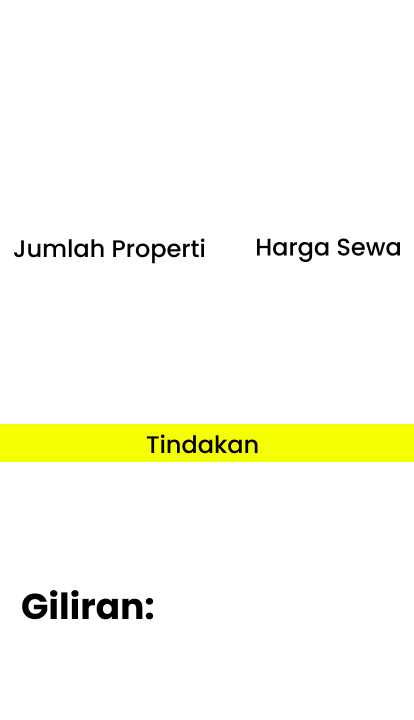
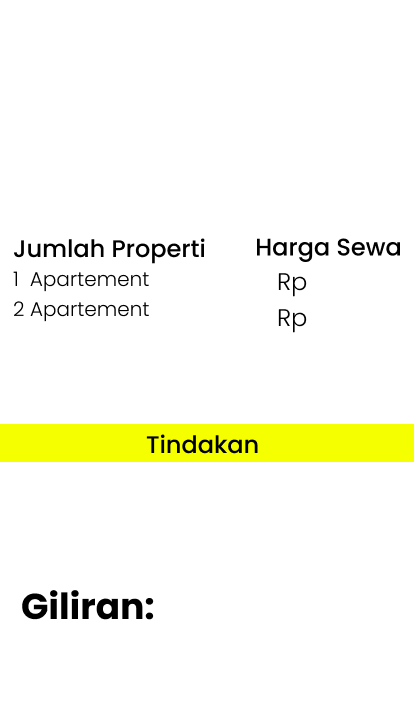
Merapikan kode

Changed region(s): [[0.029, 0.3667, 0.3768, 0.4583], [0.6667, 0.3667, 0.7536, 0.4583]]

diff --git a/src/action.py b/src/action.py
@@ -1,5 +1,77 @@
-def pay_props(self):
+from tkinter import messagebox
+import random
+
+def cek_petak(self):
+  self.start_bonus()
+  self.pay_tax()
+  self.pay_needs()
+  self.bansos()
+
+def start_bonus(self):
+  if self.move_latch == True:
+    if self.which_player_loc == 1:
+      get_latch = False
+      if get_latch == False:
+        total_value = int(self.amount_read_player(self.which_player))
+        total_value += 100000
+        self.amount_add_player(self.which_player, int(total_value))
+        messagebox.showinfo('Bonus Start', f'{self.which_player_name} mendapat bonus sebesar Rp.100.000 saat melewati start')
+        self.stats_update()
+        get_latch = True
+
+def pay_rent(self):
   player_amount = int(self.amount_read_player(self.which_player)) - 100000
   player_amount_invers = int(self.amount_read_player(self.which_player_invers)) + 100000
   self.amount_add_player(self.which_player, player_amount)
   self.amount_add_player(self.which_player_invers, player_amount_invers)
+  messagebox.showinfo('Informasi', f'{self.which_player_name} membayar sewa ke {self.which_player_name_invers} sebesar Rp. 100.000')
+
+def pay_tax(self):
+  cekProperti = self.props_read(self.which_player)
+  daftar_properti = cekProperti.split(', ')
+
+  base_value = 200000
+  if self.which_player_loc == 3:
+    total_value = int(self.amount_read_player(self.which_player)) - base_value
+    total_value -= ((len(daftar_properti)-1) * (base_value/2))
+
+    if cekProperti != '':
+      self.amount_add_player(self.which_player, int(total_value))
+      messagebox.showinfo('Pembayaran pajak', f'{self.which_player_name} membayar pajak sebesar Rp.{total_value}\nDengan bangunan sejumlah {len(daftar_properti)-1}')
+    else:
+      messagebox.showinfo('Pembayaran pajak', f'{self.which_player_name} membayar pajak sebesar Rp.{total_value}\nTanpa bangunan')
+
+    self.kunci_dadu = False
+    self.giliran = not self.giliran
+    self.stats_update()
+
+def pay_needs(self):
+  cekProperti = self.props_read(self.which_player)
+  total_value = int(self.amount_read_player(self.which_player))
+  daftar_properti = cekProperti.split(', ')
+  total_value -= ((len(daftar_properti)-1) * 50000)
+
+  if self.which_player_loc == 19:
+    if cekProperti == '':
+      messagebox.showinfo('Informasi', f'{self.which_player_name} anda tidak memiliki tagihan listrik')
+    else:
+      self.amount_add_player(self.which_player, int(total_value))
+      messagebox.showinfo('Pembayaran listrik', f'{self.which_player_name} membayar listrik sebesar Rp.{total_value}\nDengan bangunan sejumlah {len(daftar_properti)-1}')
+
+  if self.which_player_loc == 35:
+    if cekProperti == '':
+      messagebox.showinfo('Informasi', f'{self.which_player_name} anda tidak memiliki tagihan air')
+    else:
+      self.amount_add_player(self.which_player, int(total_value))
+      messagebox.showinfo('Pembayaran air', f'{self.which_player_name} membayar air sebesar Rp.{total_value}\nDengan bangunan sejumlah {len(daftar_properti)}')
+
+  self.kunci_dadu = False
+  self.giliran = not self.giliran
+  self.stats_update()
+
+def bansos(self):
+  total_value = int(self.amount_read_player(self.which_player))
+  total_value += (random.randint(20, 500) * 1000)
+  if self.which_player_loc in [24, 36]:
+    self.amount_add_player(self.which_player, int(total_value))
+    messagebox.showinfo('Dapat Bansos', f'Selamat {self.which_player_name}, kamu mendapat bansos sebesar {total_value}')

diff --git a/main.py b/main.py
@@ -75,7 +75,7 @@ setup.amount_read_player = crud_player.amount_read_player
 class screen1(setup): # Halaman Loading Awal
   def __init__(self, master):
     super().__init__(master)
-    # self.show() # Tampilkan halaman saat program dijalankan
+    self.show() # Tampilkan halaman saat program dijalankan
 
     # Tunggu 3 detik kemudian jalankan self.changeTo
     self.master.after(3000, self.changeTo) 
@@ -129,8 +129,9 @@ screen3.amount_set = crud_player.amount_set
 class screen4(setup): # Halaman permainan utama
   def __init__(self, master):
     super().__init__(master)
-    self.show()
-
+    # self.show()
+    
+    self.move_latch = False
     # Inisiasi pengambilan assets apartement
     self.show_apar()
 
@@ -149,7 +150,9 @@ class screen4(setup): # Halaman permainan utama
     self.props_add('player2', '')
 
     # Refresh tampilan data pemain
+    
     self.stats_update()
+    self.list_harga()
 
     # Pengelompokan kordinat ke dalam x dan y
     self.kordinat_x = kordinat.kordinat_x()
@@ -194,24 +197,29 @@ screen4.nextPlayer = move_option.nextPlayer
 screen4.bg_image = buy_props.bg_image
 # Tampilan daftar harga dan sewa
 screen4.list_harga = buy_props.list_harga
-# Inisiasi Pengambilas asset apartement
+# Inisiasi Pengambilan asset apartement
 screen4.show_apar = buy_props.show_apar
 #=====================================#
 
 # Fungsi mengembalikan nama kota
-screen4.list_kota = buy_props.list_kota
+screen4.list_town_name = buy_props.list_town_name
 
 #======== Fungsi Pembelian Properti =======#
 # Menambahkan data pembelian properti
 screen4.props_add = buy_props.props_add
 # Periksa data pembelian yang sudah tersimpan
 screen4.props_read = buy_props.props_read
-# Sistem bayar pemain ketika berada di kota lawan
-screen4.pay_props = action.pay_props
 # Sistem beli properti pemain
 screen4.buy1_apar = buy_props.buy1_apar
 screen4.buy2_apar = buy_props.buy2_apar
 #==========================================#
+
+screen4.start_bonus = action.start_bonus
+screen4.pay_rent = action.pay_rent
+screen4.cek_petak = action.cek_petak
+screen4.pay_tax = action.pay_tax
+screen4.pay_needs = action.pay_needs
+screen4.bansos = action.bansos
 
 #===============================================================#
 #============================================================================================#

diff --git a/pages/name_init.py b/pages/name_init.py
@@ -40,25 +40,25 @@ def name_init_screen(self):
   #==============================# End Inisiasi Entry & Button #===============================#
   
   #==============================# Menempatkan Gambar, Entry, & Button #===============================#
-  self.canvas.create_image(0, 0, anchor='nw', image=self.bg)
-  self.canvas.create_image(442.05, 96, anchor='nw', image=self.title)
+  self.canvas.create_image(0, 0, anchor='nw', image= self.bg)
+  self.canvas.create_image(442.05, 96, anchor='nw', image= self.title)
   self.canvas.create_image(364, 259, anchor= 'nw', image= self.player1_bg)
   self.canvas.create_image(364, 352, anchor= 'nw', image= self.player2_bg)
   self.canvas.create_image(364, 472, anchor= 'nw', image= self.modal_bg)
+  self.canvas.create_window(410, 570, anchor= 'nw', window= self.btn_start)
   self.player1_entry.place(x= 539, y= 270)
   self.player2_entry.place(x= 539, y= 360)
   self.modal_amount.place(x= 609, y= 482)
-  self.canvas.create_window(410, 570, anchor= 'nw', window= self.btn_start)
   #===============================# End Menempatkan Gambar, Entry, & Button #===============================#
 #========================== End desain halaman inisialisasi nama pemain ==========================#
 
 def changeTo(self):
   self.name_add(self.player1_name.get(), self.player2_name.get())
 
-  self.cekNama1 = self.name_read_player('player1')
-  self.cekNama2 = self.name_read_player('player2')
+  cekNama1 = self.name_read_player('player1')
+  cekNama2 = self.name_read_player('player2')
 
-  if self.cekNama1 == '' or self.cekNama2 == '':
+  if cekNama1 == '' or cekNama2 == '':
     messagebox.showerror('Perhatikan!!', "Nama pemain tidak boleh kosong!")
     return
     
@@ -68,9 +68,9 @@ def changeTo(self):
     messagebox.showerror('Perhatikan!!', "Jumlah modal harus berupa angka!")
     return
   self.amount_set(str(self.modal_amount.get()))
-  self.cekUang = int(self.amount_read_player('player1'))
+  cekUang = int(self.amount_read_player('player1'))
 
-  if self.cekUang < 10000:
+  if cekUang < 10000:
     messagebox.showerror('Perhatikan!!', "Jumlah modal harus lebih dari 100.000!")
     return
   

diff --git a/src/buy_props.py b/src/buy_props.py
@@ -82,17 +82,17 @@ def bg_image(self, x):
     return import_image('assets/bg_town8.png', png= 1)
 
 # Fungsi mengembalikan nama kota
-def list_kota(self, x): 
+def list_town_name(self, x): 
   if x in list_town:
     return town_name[list_town.index(x)]
 
 # Tampilan informasi harga beli dan sewa
 def list_harga(self):
-  self.town_title_bg = self.bg_image(self.which_player_loc)
-  self.town_title = self.list_kota(self.which_player_loc)
+  town_title_bg = self.bg_image(self.which_player_loc)
+  town_title = self.list_town_name(self.which_player_loc)
 
-  self.town_title_bg_item = self.canvas.create_image(0, 181, anchor='nw', image=self.town_title_bg)
-  self.town_title_item = self.canvas.create_text(138, 184, anchor='nw', text= self.town_title, font=('Poppins', 20), fill= 'white')
+  self.town_title_bg_item = self.canvas.create_image(0, 181, anchor='nw', image=town_title_bg)
+  self.town_title_item = self.canvas.create_text(138, 184, anchor='nw', text= town_title, font=('Poppins', 20), fill= 'white')
 
 # Fungsi untuk membeli 1 apartement
 def buy1_apar(self):
@@ -105,7 +105,7 @@ def buy1_apar(self):
   self.buy2_price.destroy()
 
   # Fungsi
-  town_name = self.list_kota(self.which_player_loc)
+  town_name = self.list_town_name(self.which_player_loc)
   prop_cache = self.props_read(self.which_player)
   player_amount = int(self.amount_read_player(self.which_player)) - 100000
 
@@ -139,7 +139,7 @@ def buy2_apar(self):
   self.buy2_price.destroy()
 
   # Fungsi
-  town_name = self.list_kota(self.which_player_loc)
+  town_name = self.list_town_name(self.which_player_loc)
   prop_cache = self.props_read(self.which_player)
   player_amount = int(self.amount_read_player(self.which_player)) - 100000
 

diff --git a/src/move_option.py b/src/move_option.py
@@ -4,13 +4,11 @@ from tkinter import messagebox
 list_town = [2, 5, 6, 8, 9, 10, 12, 13, 15, 17, 20, 22, 23, 25, 28, 29, 30, 32, 33, 34, 37, 39, 40]
 
 def ask(self):
-  which_player_loc = self.player2_loc if self.giliran else self.player1_loc  
-
-  is_town = self.list_kota(self.which_player_loc)
+  self.stats_update()
+  is_town = self.list_town_name(self.which_player_loc)
   prop_cache_invers = self.props_read(self.which_player_invers)
-  print(prop_cache_invers)
 
-  if which_player_loc in list_town:
+  if self.which_player_loc in list_town:
     self.gonnaBuy_btn = Button(self.frame, text= 'Beli Properti', command= self.gonnaBuy, font=('Poppins', 18))
     self.nextPlayer_btn = Button(self.frame, text= 'Lanjut', command= self.nextPlayer, font=('Poppins', 18))
 
@@ -22,19 +20,20 @@ def ask(self):
       self.gonnaBuy_btn.destroy()
     if hasattr(self, 'nextPlayer_btn'):
       self.nextPlayer_btn.destroy()
+
     self.kunci_dadu = False
     self.giliran = not self.giliran
     self.stats_update()
   
-  if prop_cache_invers is None:
-    return
+  if prop_cache_invers == None:
+    pass
+  elif is_town == None:
+    pass
   elif is_town in prop_cache_invers:
     self.gonnaBuy_btn.destroy()
     self.nextPlayer_btn.destroy()
     
-    self.pay_props()
-    messagebox.showinfo('Informasi', f'{self.which_player_name} membayar sewa ke {self.which_player_invers} sebesar Rp. 100.000')
-    
+    self.pay_rent()
     self.kunci_dadu = False
     self.giliran = not self.giliran
     self.stats_update()

diff --git a/src/dadu.py b/src/dadu.py
@@ -13,11 +13,25 @@ def import_image(src, resize= None, png= None): # Fungsi untuk mengimport gambar
 
   return ImageTk.PhotoImage(x)
 
+move_point = 0
+
 def roll_dice(self, event= None):
+  global move_point
   if self.kunci_dadu == False:
     self.dadu_num = random.randint(1,6)
     self.pos_increase()
+    self.giliran = not self.giliran
+
+    self.cek_petak()
+    self.stats_update()
     self.ask()
+    
+    
+
+    if self.move_latch == False and move_point < 2:
+      move_point += 1
+    if move_point >= 2:
+      self.move_latch = True
     return self.dadu_num
   else:
     messagebox.showwarning('Perhatikan', "Giliran anda sudah selesai\nPilih opsi 'Beli Properti' atau 'Lanjut'")
@@ -26,12 +40,12 @@ def pos_increase(self):
     if self.giliran == False:
       self.player1_loc += self.dadu_num
       if self.player1_loc >= len(self.kordinat_x)-1:
-        self.player1_loc = 1
+        self.player1_loc += self.dadu_num - len(self.kordinat_x)-1
     
     elif self.giliran == True:
       self.player2_loc += self.dadu_num
       if self.player2_loc >= len(self.kordinat_x)-1:
-        self.player2_loc = 1
+        self.player2_loc += self.dadu_num - len(self.kordinat_x)-1
 
     match self.player1_loc:
       case 4: # Tangga 1

diff --git a/src/status_pemain.py b/src/status_pemain.py
@@ -1,6 +1,5 @@
 from tkinter import *
 
-
 def update_data(self):
     self.player1_name = self.name_read_player('player1')
     self.player2_name = self.name_read_player('player2')
@@ -11,7 +10,7 @@ def update_data(self):
     self.which_player_invers = 'player1' if self.giliran else 'player2'
 
     self.which_player_name = self.player2_name if self.giliran else self.player1_name
-    self.which_player_invers = self.player1_name if self.giliran else self.player2_name
+    self.which_player_name_invers = self.player1_name if self.giliran else self.player2_name
 
     self.which_player_loc = self.player2_loc if self.giliran else self.player1_loc
     self.which_player_loc_invers = self.player1_loc if self.giliran else self.player2_loc
